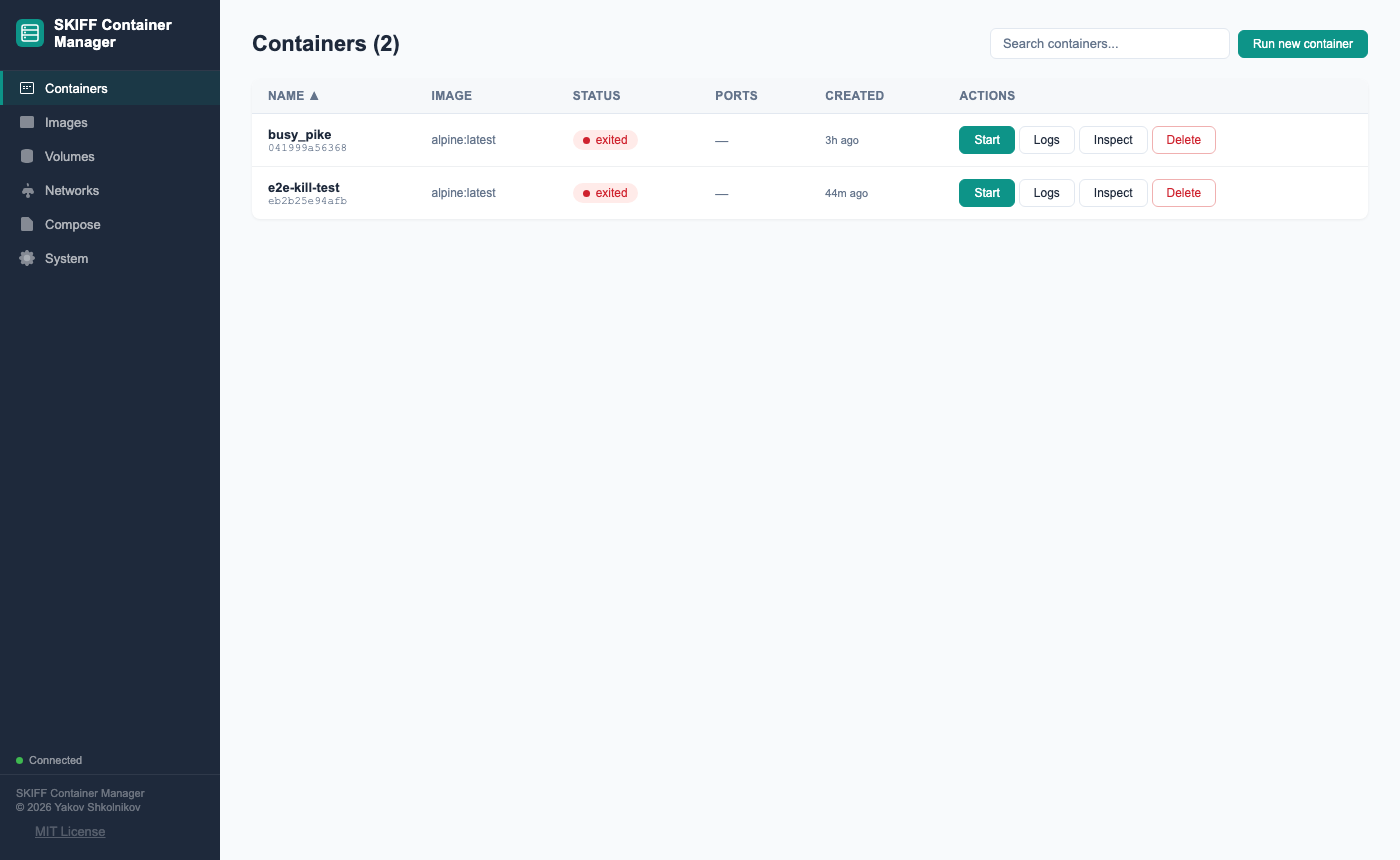
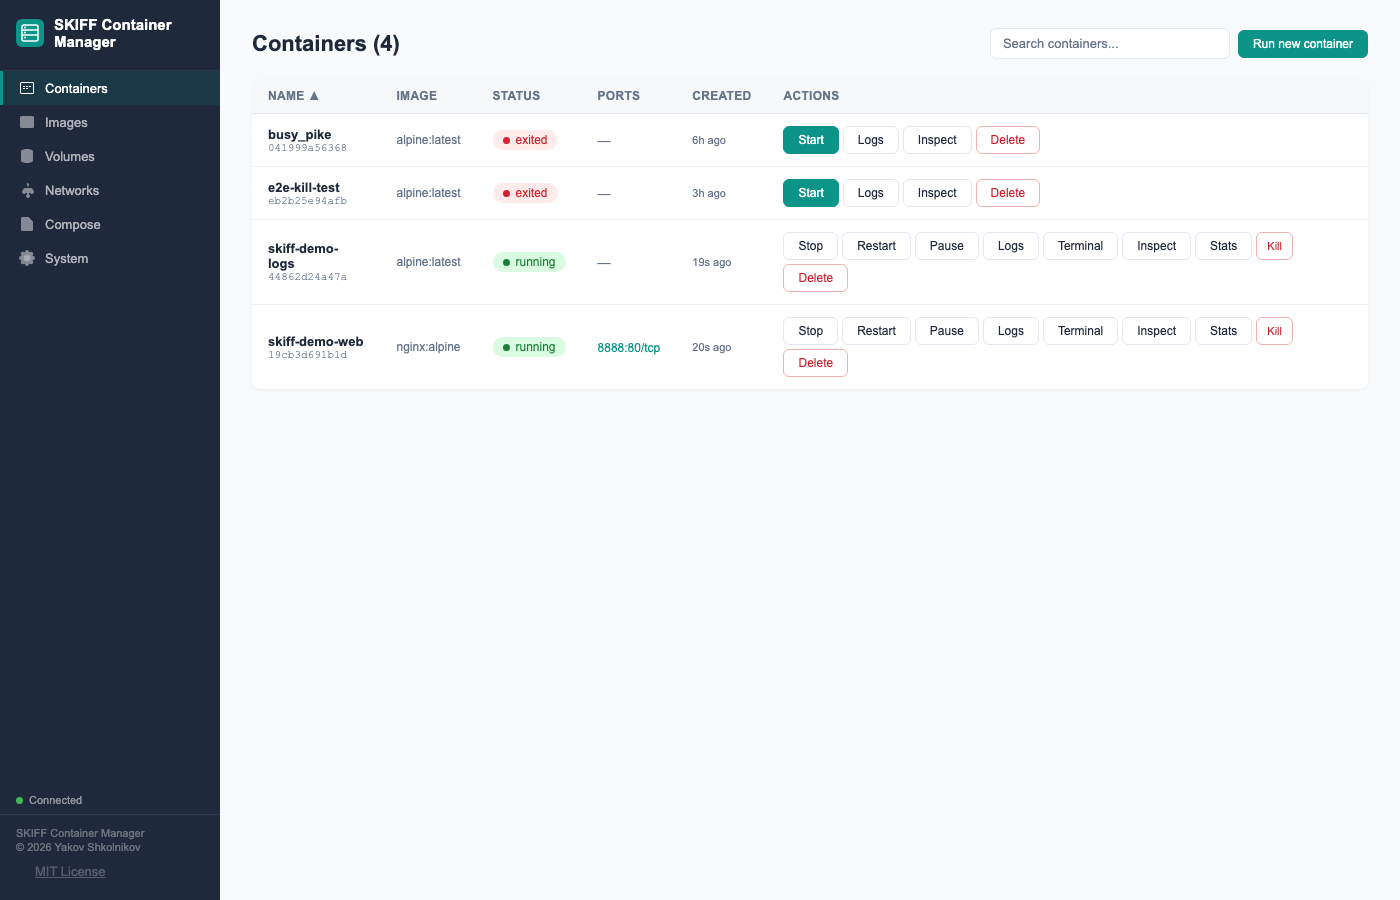
docs: add log streaming and exec terminal screenshots

diff --git a/README.md b/README.md
@@ -6,7 +6,11 @@ Built for teams running containers on remote VMs (GCP Cloud Workstations, EC2, b
 
 No per-seat licensing. No installation on the container host. Works wherever you have a browser and SSH.
 
-![SKIFF Container Manager UI](docs/screenshot.png)
+![SKIFF Container Manager — containers list](docs/screenshot.png)
+
+![SKIFF Container Manager — live log streaming](docs/screenshot-logs.png)
+
+![SKIFF Container Manager — exec terminal](docs/screenshot-exec.png)
 
 ---
 
